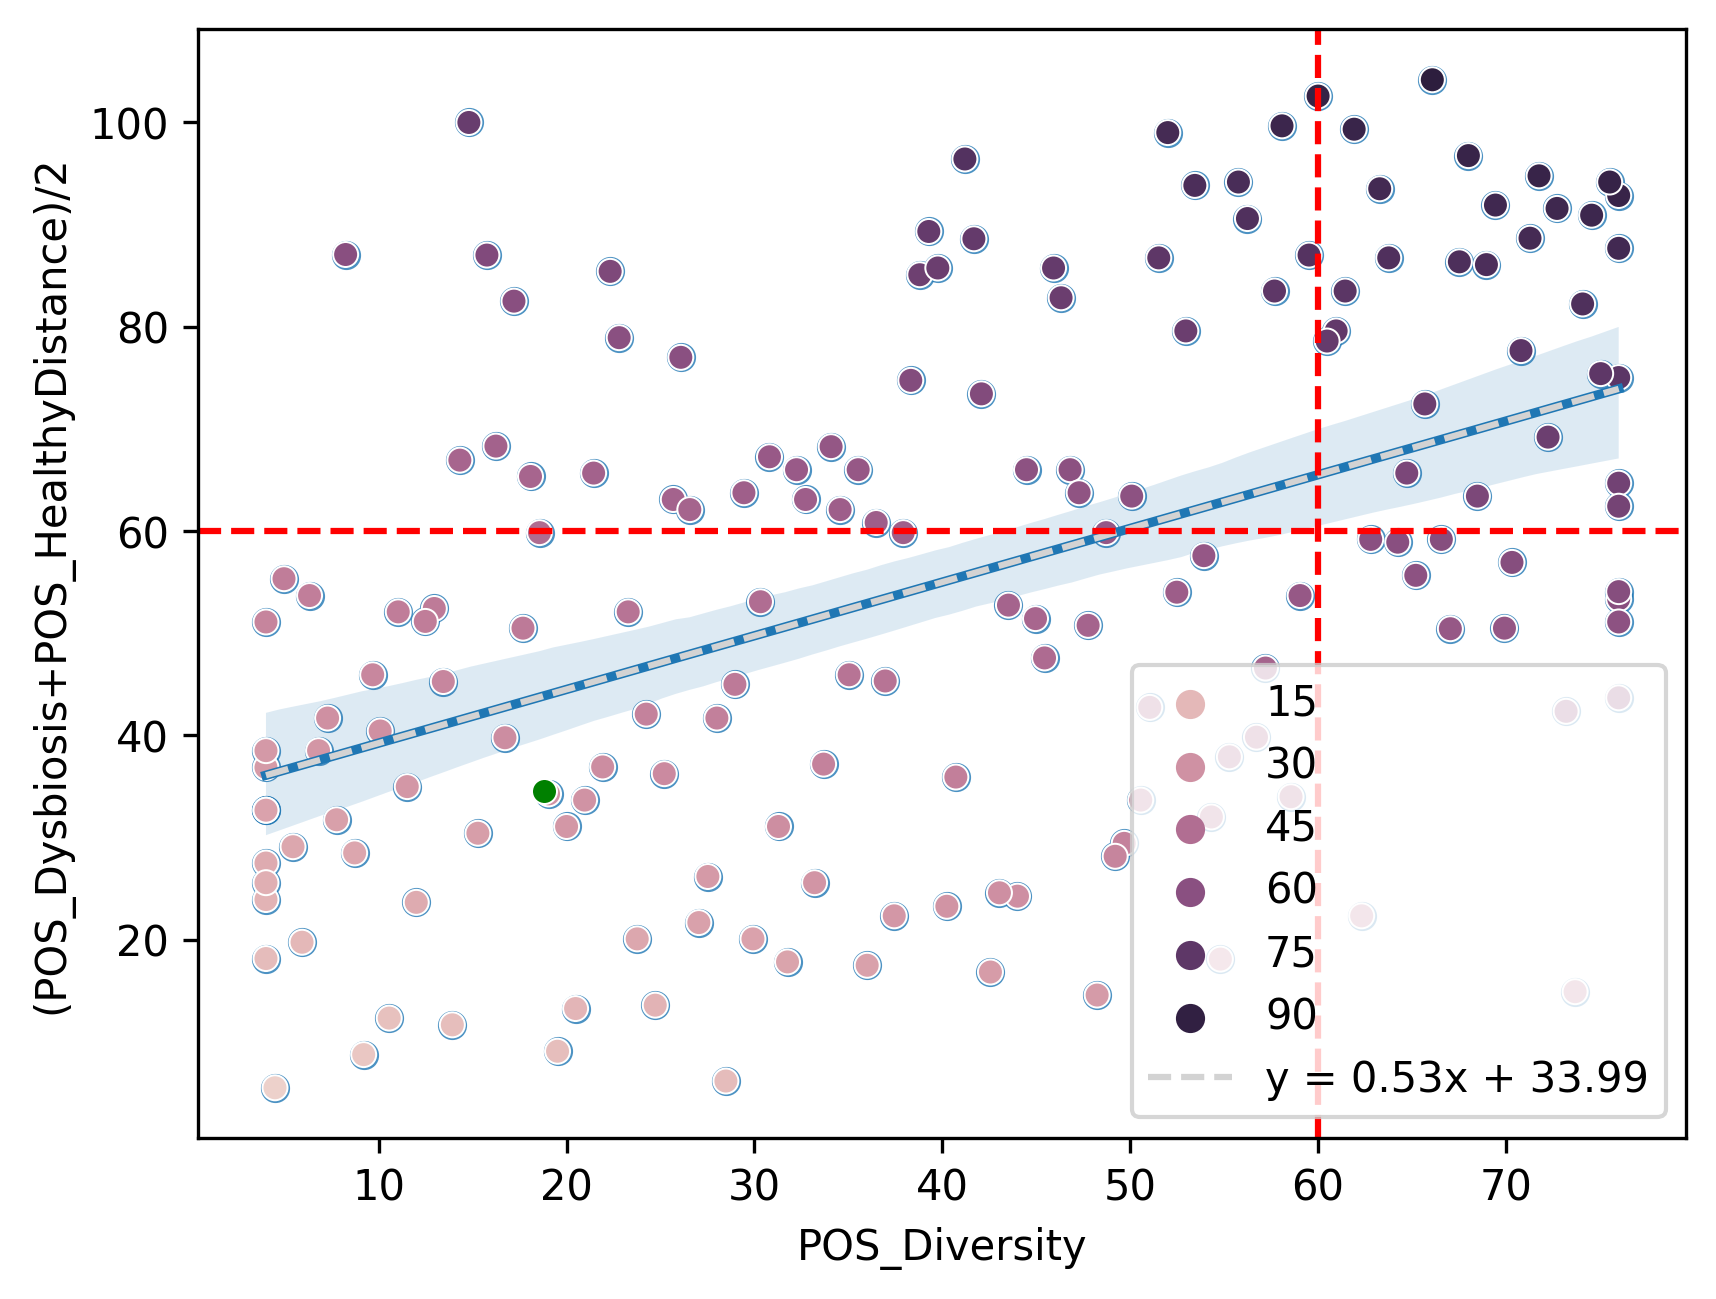
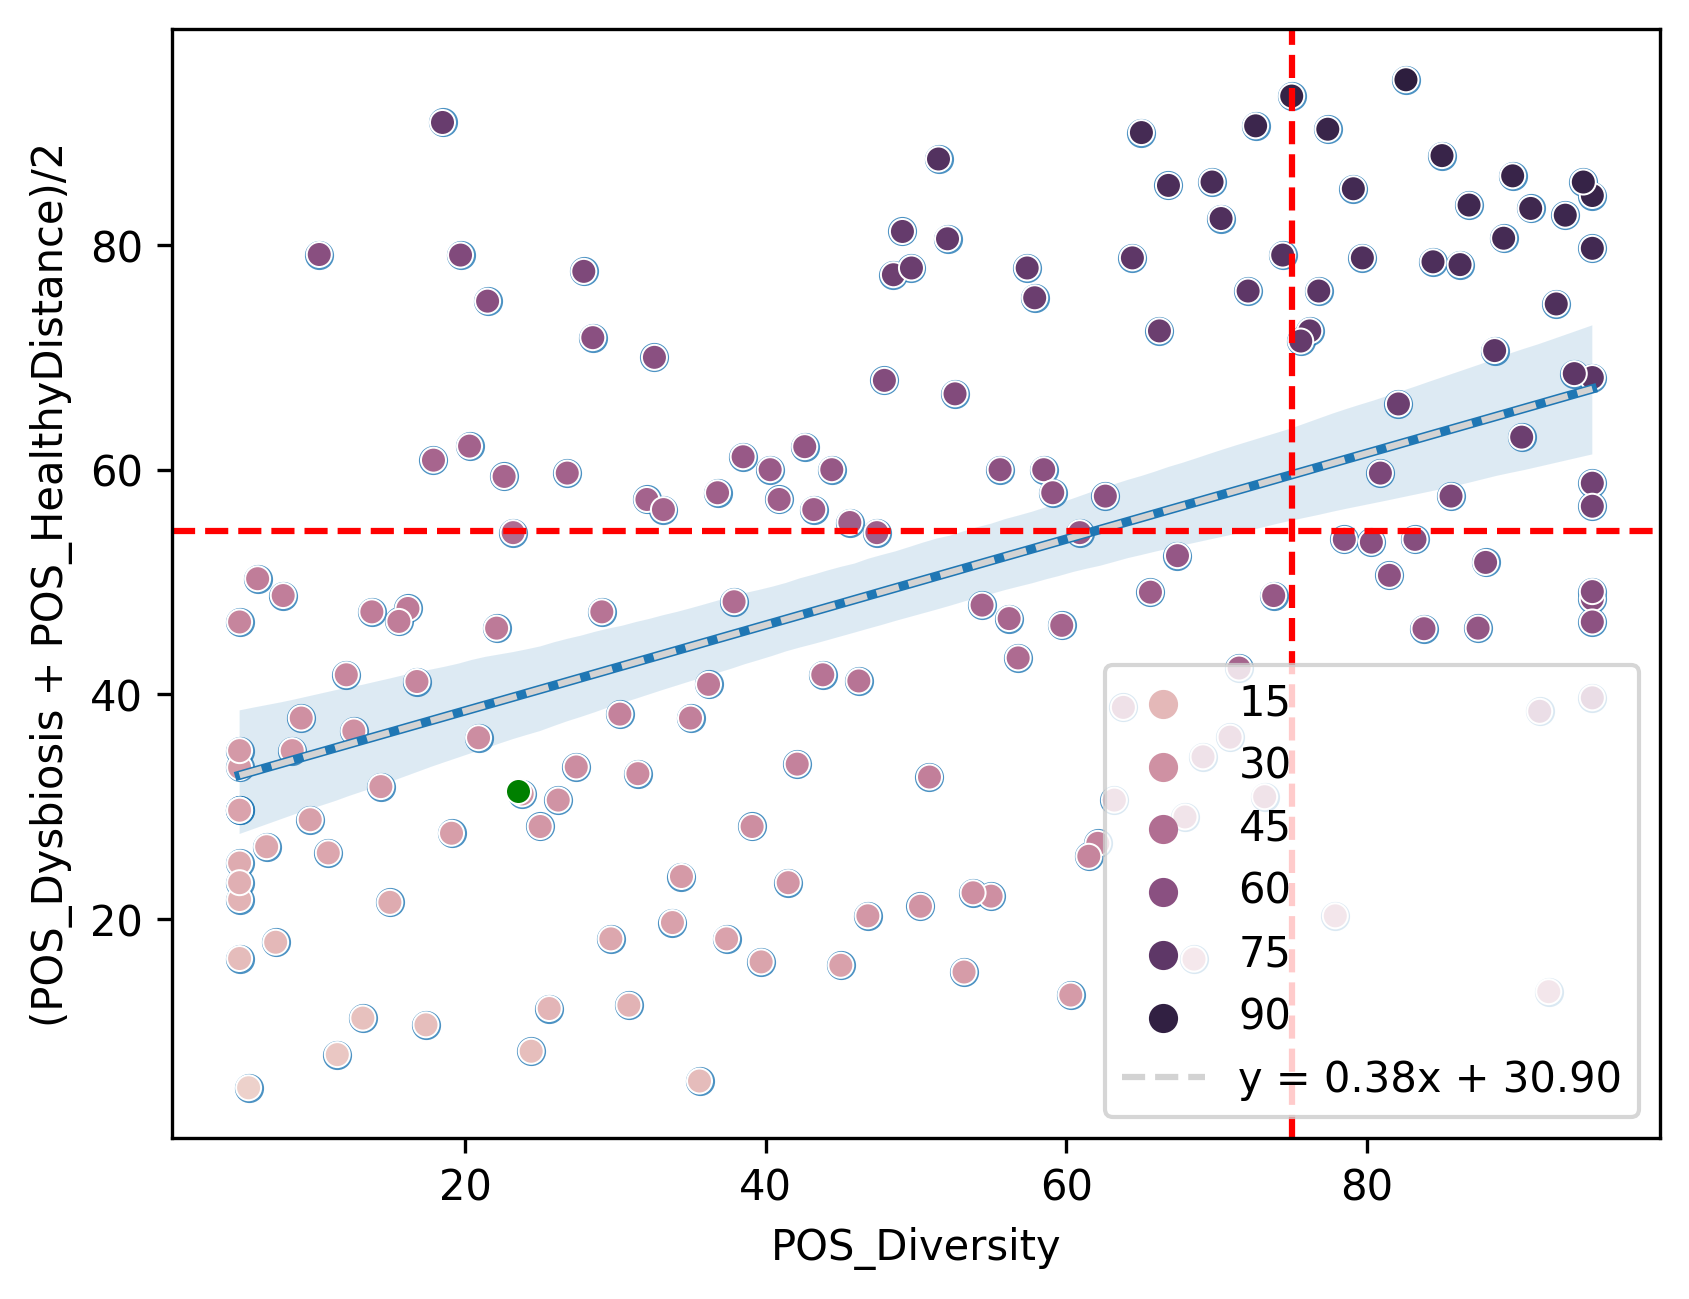
Update the code - microbiome list

diff --git a/comp_percentile_rank_forRPA.py b/comp_percentile_rank_forRPA.py
@@ -1,7 +1,3 @@
-##<Usage: python Script.py {path_exp}>
-### ex) python comp_percentile_rank.py "/home/kbkim/comp_animal_disease/input/mirror_output_dog_1340.csv" 
-### ex) python comp_percentile_rank.py "/home/kbkim/comp_animal_disease/input/mirror_output_cat_1409.csv"
-
 import os, datetime
 import pandas as pd
 from scipy.stats import percentileofscore, pearsonr
@@ -12,9 +8,6 @@ import numpy as np
 import seaborn as sns
 import scipy
 from skbio.stats.composition import multiplicative_replacement, clr
-
-# path_exp : Path of Merged Proportion file to analyze
-#path_exp = sys.argv[1] 
 
 #-------------------------------------------------------
 # Common Function
@@ -148,6 +141,7 @@ class CompAnimalDisease:
             print(str(e))
             rv = False
             rvmsg = str(e)
+            print(f"Error has occurred in the {myNAME} process")    
             
         return rv, rvmsg
 
@@ -344,12 +338,6 @@ class CompAnimalDisease:
                 
                 self.df_mrs.loc[self.li_new_sample_name[idx], 'HealthyDistance'] = -healthy_dist
             
-            #print(self.df_mrs_db['Dysbiosis'].std(skipna=False))
-            #print(self.df_mrs_db['Dysbiosis'].mean(skipna=False))
-            
-            # Calculate the TotalScore            
-            #self.df_mrs['TotalScore'] = self.df_mrs['Dysbiosis'] + self.df_mrs['HealthyDistance'] + self.df_mrs['Diversity']
- 
         except Exception as e:
             print(str(e))
             rv = False
@@ -391,7 +379,7 @@ class CompAnimalDisease:
                 self.df_percentile_rank.loc[self.df_percentile_rank[self.li_phenotype[i]]>=95, self.li_phenotype[i]] = 95.0      
                 
             self.df_percentile_rank['TotalScore'] = (self.df_percentile_rank['Dysbiosis']*1.1 + self.df_percentile_rank['HealthyDistance']*1.1 + self.df_percentile_rank['Diversity']*0.8)/3
-            
+                        
             # Replace missing values with the string 'None'    
             self.df_percentile_rank = self.df_percentile_rank.fillna('None')
 
@@ -425,45 +413,45 @@ class CompAnimalDisease:
         try:  
             
             #create regplot
-            p = sns.regplot(data=self.df_percentile_rank_db, x=self.df_percentile_rank_db['Diversity']*0.8, y=(self.df_percentile_rank_db['Dysbiosis']*1.1 + self.df_percentile_rank_db['HealthyDistance']*1.1)/2)
+            p = sns.regplot(data=self.df_percentile_rank_db, x=self.df_percentile_rank_db['Diversity'], y=(self.df_percentile_rank_db['Dysbiosis'] + self.df_percentile_rank_db['HealthyDistance'])/2)
 
             #calculate slope and intercept of regression equation
             slope, intercept, r, p, sterr = scipy.stats.linregress(x=p.get_lines()[0].get_xdata(),
                                                                    y=p.get_lines()[0].get_ydata())
 
             # generate x and y values for the line
-            x_vals = np.linspace(start=(self.df_percentile_rank_db['Diversity']*0.8).min(), stop=(self.df_percentile_rank_db['Diversity']*0.8).max(), num=100)
+            x_vals = np.linspace(start=self.df_percentile_rank_db['Diversity'].min(), stop=self.df_percentile_rank_db['Diversity'].max(), num=100)
             y_vals = intercept + slope * x_vals                   
             
-            sns.scatterplot(x=self.df_percentile_rank_db['Diversity']*0.8, y=(self.df_percentile_rank_db['Dysbiosis']*1.1 + self.df_percentile_rank_db['HealthyDistance']*1.1)/2, hue = self.df_percentile_rank_db['TotalScore'] , data=self.df_percentile_rank_db)
+            sns.scatterplot(x=self.df_percentile_rank_db['Diversity'], y=(self.df_percentile_rank_db['Dysbiosis'] + self.df_percentile_rank_db['HealthyDistance'])/2, hue = self.df_percentile_rank_db['TotalScore'] , data=self.df_percentile_rank_db)
             
             # add new points to the scatter plot
-            sns.scatterplot(x=self.df_percentile_rank['Diversity']*0.8, y=(self.df_percentile_rank['Dysbiosis']*1.1 + self.df_percentile_rank['HealthyDistance']*1.1)/2, data=self.df_percentile_rank, color='g')            
+            sns.scatterplot(x=self.df_percentile_rank['Diversity'], y=(self.df_percentile_rank['Dysbiosis'] + self.df_percentile_rank['HealthyDistance'])/2, data=self.df_percentile_rank, color='g')            
             
             plt.plot(x_vals, y_vals, '--', color='lightgray', label=f'y = {slope:.2f}x + {intercept:.2f}')
             plt.xlabel('POS_Diversity')
-            plt.ylabel('(POS_Dysbiosis+POS_HealthyDistance)/2')
+            plt.ylabel('(POS_Dysbiosis + POS_HealthyDistance)/2')
             plt.legend()
                                  
-            plt.axhline(y=60, xmin=0, xmax=1, color='red', linestyle='--')    
-            plt.axvline(x=60, ymin=0, ymax=1, color='red', linestyle='--')
+            plt.axhline(y=60/1.1, xmin=0, xmax=1, color='red', linestyle='--')    
+            plt.axvline(x=60/0.8, ymin=0, ymax=1, color='red', linestyle='--')
             
             
-            E_data = self.df_percentile_rank_db[(self.df_percentile_rank_db['Diversity']*0.8 >= 60) & ((self.df_percentile_rank_db['Dysbiosis']*1.1 + self.df_percentile_rank_db['HealthyDistance']*1.1)/2 >= 60)]
-            B_data = self.df_percentile_rank_db[(self.df_percentile_rank_db['Diversity']*0.8 < 60) & ((self.df_percentile_rank_db['Dysbiosis']*1.1 + self.df_percentile_rank_db['HealthyDistance']*1.1)/2 >= 60)]
-            D_data = self.df_percentile_rank_db[(self.df_percentile_rank_db['Diversity']*0.8 < 60) & ((self.df_percentile_rank_db['Dysbiosis']*1.1 + self.df_percentile_rank_db['HealthyDistance']*1.1)/2 < 60)]
-            I_data = self.df_percentile_rank_db[(self.df_percentile_rank_db['Diversity']*0.8 >= 60) & ((self.df_percentile_rank_db['Dysbiosis']*1.1 + self.df_percentile_rank_db['HealthyDistance']*1.1)/2 < 60)]
+            E_data = self.df_percentile_rank_db[(self.df_percentile_rank_db['Diversity'] >= 60/0.8) & ((self.df_percentile_rank_db['Dysbiosis'] + self.df_percentile_rank_db['HealthyDistance'])/2 >= 60/1.1)]
+            B_data = self.df_percentile_rank_db[(self.df_percentile_rank_db['Diversity'] < 60/0.8) & ((self.df_percentile_rank_db['Dysbiosis'] + self.df_percentile_rank_db['HealthyDistance'])/2 >= 60/1.1)]
+            D_data = self.df_percentile_rank_db[(self.df_percentile_rank_db['Diversity'] < 60/0.8) & ((self.df_percentile_rank_db['Dysbiosis'] + self.df_percentile_rank_db['HealthyDistance'])/2 < 60/1.1)]
+            I_data = self.df_percentile_rank_db[(self.df_percentile_rank_db['Diversity'] >= 60/0.8) & ((self.df_percentile_rank_db['Dysbiosis'] + self.df_percentile_rank_db['HealthyDistance'])/2 < 60/1.1)]
 
-            E_percent = len(E_data) / len(self.df_percentile_rank_db)
-            B_percent = len(B_data) / len(self.df_percentile_rank_db)
-            D_percent = len(D_data) / len(self.df_percentile_rank_db)
-            I_percent = len(I_data) / len(self.df_percentile_rank_db)
+            E_percent = len(E_data) / len(self.df_percentile_rank_db) * 100
+            B_percent = len(B_data) / len(self.df_percentile_rank_db) * 100
+            D_percent = len(D_data) / len(self.df_percentile_rank_db) * 100
+            I_percent = len(I_data) / len(self.df_percentile_rank_db) * 100
             
             print(f"<{self.species}>")
-            print("Percentage of samples in E: ", 100*E_percent, '%')
-            print("Percentage of samples in B: ", 100*B_percent, '%') 
-            print("Percentage of samples in D: ", 100*D_percent, '%')
-            print("Percentage of samples in I: ", 100*I_percent, '%')  
+            print("Percentage of samples in E: ", E_percent, '%')
+            print("Percentage of samples in B: ", B_percent, '%') 
+            print("Percentage of samples in D: ", D_percent, '%')
+            print("Percentage of samples in I: ", I_percent, '%')  
             
             
             # save the scatter plot
@@ -511,19 +499,14 @@ class CompAnimalDisease:
 
             # Type E, B, I, D
             conditions = [
-                (self.df_percentile_rank['Diversity']*0.8 >= 60) & ((self.df_percentile_rank['Dysbiosis']*1.1 + self.df_percentile_rank['HealthyDistance']*1.1)/2 >= 60),
-                (self.df_percentile_rank['Diversity']*0.8 < 60) & ((self.df_percentile_rank['Dysbiosis']*1.1 + self.df_percentile_rank['HealthyDistance']*1.1)/2 >= 60),
-                (self.df_percentile_rank['Diversity']*0.8 >= 60) & ((self.df_percentile_rank['Dysbiosis']*1.1 + self.df_percentile_rank['HealthyDistance']*1.1)/2 < 60),
-                (self.df_percentile_rank['Diversity']*0.8 < 60) & ((self.df_percentile_rank['Dysbiosis']*1.1 + self.df_percentile_rank['HealthyDistance']*1.1)/2 < 60)
+                (self.df_percentile_rank['Diversity'] >= 60/0.8) & ((self.df_percentile_rank['Dysbiosis'] + self.df_percentile_rank['HealthyDistance'])/2 >= 60/1.1),
+                (self.df_percentile_rank['Diversity'] < 60/0.8) & ((self.df_percentile_rank['Dysbiosis'] + self.df_percentile_rank['HealthyDistance'])/2 >= 60/1.1),
+                (self.df_percentile_rank['Diversity'] >= 60/0.8) & ((self.df_percentile_rank['Dysbiosis'] + self.df_percentile_rank['HealthyDistance'])/2 < 60/1.1),
+                (self.df_percentile_rank['Diversity'] < 60/0.8) & ((self.df_percentile_rank['Dysbiosis'] + self.df_percentile_rank['HealthyDistance'])/2 < 60/1.1)
             ]
             values = ['E', 'B', 'I', 'D']
 
             self.df_eval['Type'] = np.select(conditions, values)
-
-            # Save the output file - df_eval
-            #self.df_eval.to_csv(self.path_comp_eval_output, encoding="utf-8-sig", index_label='serial_number')
-            
-            print('Analysis Complete')  
             
         except Exception as e:
             print(str(e))
@@ -595,17 +578,21 @@ class CompAnimalDisease:
                                         
                             beneficial_abundance += abundance   
                             
-                self.df_eval.loc[self.li_new_sample_name[i], 'harmful_ratio'] = harmful_abundance * 100
-                self.df_eval.loc[self.li_new_sample_name[i], 'beneficial_ratio'] = beneficial_abundance * 100
+                self.df_eval.loc[self.li_new_sample_name[i], 'harmful_abundance'] = harmful_abundance * 100
+                self.df_eval.loc[self.li_new_sample_name[i], 'beneficial_abundance'] = beneficial_abundance * 100
             
             # Save the output file - df_eval
             self.df_eval.to_csv(self.path_comp_eval_output, encoding="utf-8-sig", index_label='serial_number')
-                
+                    
         except Exception as e:
             print(str(e))
             rv = False
             rvmsg = str(e)
             print(f"Error has occurred in the {myNAME} process")    
+            sys.exit()
+            
+        return rv, rvmsg  
+            
 ####################################
 # main
 ####################################
@@ -614,8 +601,8 @@ if __name__ == '__main__':
     #path_exp = 'input/PDmirror_output_dog_1629.csv'
     #path_exp = 'input/PCmirror_output_cat_1520.csv'
     
-    #path_exp = 'input/PD_dog_one_sample.csv'
-    path_exp = 'input/PC_cat_one_sample.csv'
+    path_exp = 'input/PD_dog_one_sample.csv'
+    #path_exp = 'input/PC_cat_one_sample.csv'
     
     companimal = CompAnimalDisease(path_exp)
     companimal.ReadDB()
@@ -626,4 +613,6 @@ if __name__ == '__main__':
     companimal.DrawScatterPlot()    
     companimal.EvaluatePercentileRank()    
     companimal.CalculateMicrobiomeRatio()
+    
+    print('Analysis Complete')
     

diff --git a/comp_update_mrs.py b/comp_update_mrs.py
@@ -54,7 +54,7 @@ def save_histograms_to_file(df, filename):
         axs[i].set_title(df.columns.to_list()[i])
     
     plt.tight_layout()
-    plt.savefig(filename)
+    plt.savefig(filename, dpi=300)
     
 ###################################
 # MainClass
@@ -241,6 +241,7 @@ class CompAnimalDiseaseUpdateMRS:
             rv = False
             rvmsg = str(e)
             print(f"Error has occurred in the {myNAME} process")    
+            sys.exit() 
     
         return rv, rvmsg   
 
@@ -312,6 +313,7 @@ class CompAnimalDiseaseUpdateMRS:
             rv = False
             rvmsg = str(e)
             print(f"Error has occurred in the {myNAME} process")    
+            sys.exit() 
     
         return rv, rvmsg        
 
@@ -380,10 +382,7 @@ class CompAnimalDiseaseUpdateMRS:
                 healthy_dist = np.linalg.norm(np_abundance - np_healthy_abundance)  
                 
                 self.df_mrs.loc[self.li_new_sample_name[idx], 'HealthyDistance'] = -healthy_dist
-            
-            # Calculate the TotalScore
-            #self.df_mrs['TotalScore'] = self.df_mrs['Dysbiosis'] + self.df_mrs['HealthyDistance'] + self.df_mrs['Diversity']
- 
+             
         except Exception as e:
             print(str(e))
             rv = False
@@ -425,7 +424,7 @@ class CompAnimalDiseaseUpdateMRS:
                 self.df_percentile_rank.loc[self.df_percentile_rank[self.li_phenotype[i]]>=95, self.li_phenotype[i]] = 95.0      
                 
             self.df_percentile_rank['TotalScore'] = (self.df_percentile_rank['Dysbiosis']*1.1 + self.df_percentile_rank['HealthyDistance']*1.1 + self.df_percentile_rank['Diversity']*0.8)/3
-            
+                       
             # Replace missing values with the string 'None'    
             self.df_percentile_rank = self.df_percentile_rank.fillna('None')
             
@@ -461,7 +460,6 @@ class CompAnimalDiseaseUpdateMRS:
    
             # Histogram Plot - mrs 
             save_histograms_to_file(self.df_mrs, self.path_hist)    
-            print('Update Complete') 
 
         except Exception as e:
             print(str(e))
@@ -485,3 +483,5 @@ if __name__ == '__main__':
     companimal.CalculateHealthyDistance()     
     companimal.CalculatePercentileRank() 
     companimal.UpdateMRS() 
+    
+    print('Update Complete') 
